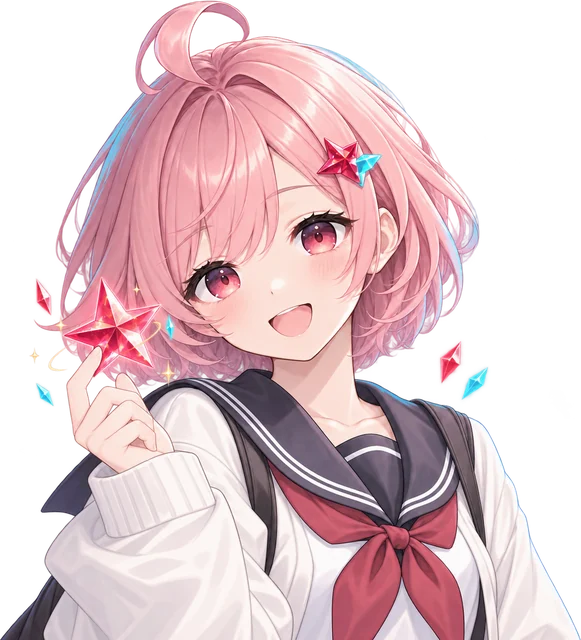
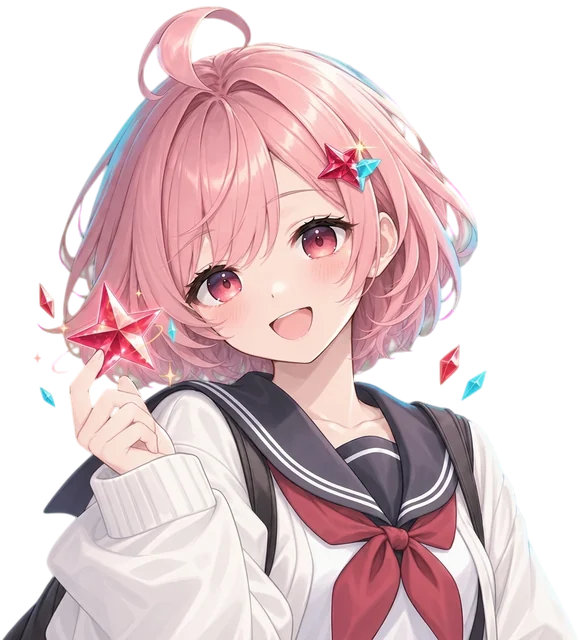
feat(lumi): refresh the mascot art and add cheer, study, wave and focus poses
The ten existing poses are redrawn on the same canvases. The greeting step of
onboarding waves, the first-cards step and the library heading hold cards, a
finished lesson and a streak milestone cheer, and a "hard" rating shows the
focused pose instead of the mistake pose.

Claude-Session: https://claude.ai/code/session_01NVdn2VbFUpzcnfLQXJs7G4

diff --git a/src/features/library/LibraryOverview.tsx b/src/features/library/LibraryOverview.tsx
@@ -14,7 +14,7 @@ export function LibraryOverview({ total, due, onCreateCard, searchQuery = '', on
   const { i18n } = useLingui();
   return <header className="library-canvas-heading" data-library-region="overview">
     <div className="library-canvas-title"><p className="library-canvas-kicker"><Trans {...msg({ context: 'library.overview.kicker', message: 'Vocabulary' })} /> <span className="library-canvas-kicker-decks"><Trans {...msg({ context: 'library.overview.deck-count', message: '// {count, plural, one {# deck} other {# decks}}' })} values={{ count: deckCount }} /></span></p><h2 id="learning-home-heading"><Trans {...msg({ context: 'library.overview.kicker', message: 'Vocabulary' })} /></h2><p className="library-canvas-summary" data-library-evidence="true"><span>{formatNumber(total)}</span> <Trans {...msg({ context: 'library.overview.words', message: 'words' })} /> <span className="library-canvas-summary-decks"><Trans {...msg({ context: 'library.overview.across-decks', message: 'across {count, plural, one {# deck} other {# decks}}' })} values={{ count: deckCount }} /></span> · <strong>{due} <Trans {...msg({ context: 'library.overview.due', message: 'due today' })} /></strong></p></div>
-    <aside className="library-lumi-hint"><Lumi pose="hint" size={100}/><p><b><Trans {...msg({ context: 'library.overview.lumi-signature', message: 'LUMI · LINK' })} /></b><span><Trans {...msg({ context: 'library.overview.lumi', message: 'Review the cards waiting for you today.' })} /></span></p></aside>
+    <aside className="library-lumi-hint"><Lumi pose="study" size={100}/><p><b><Trans {...msg({ context: 'library.overview.lumi-signature', message: 'LUMI · LINK' })} /></b><span><Trans {...msg({ context: 'library.overview.lumi', message: 'Review the cards waiting for you today.' })} /></span></p></aside>
     <label className="library-canvas-search"><Search size={17} aria-hidden="true" /><span className="sr-only"><Trans {...msg({ context: 'library.grid.search-label', message: 'Search words' })} /></span><input type="search" autoComplete="off" value={searchQuery} onChange={event => onSearchChange?.(event.target.value)} placeholder={i18n._(msg({ id: 'library.canvas.search-placeholder', message: 'Search words or meanings…' }))} /><kbd>/</kbd></label>
     <button type="button" data-library-create-action="true" onClick={onCreateCard} className="library-canvas-create"><Plus size={17} aria-hidden="true" /><Trans {...msg({ context: 'library.overview.create-card', message: 'Create card' })} /></button>
   </header>;

diff --git a/src/components/lumi/Lumi.tsx b/src/components/lumi/Lumi.tsx
@@ -1,6 +1,8 @@
 import { type ComponentPropsWithoutRef, type CSSProperties } from 'react';
 import { useReducedMotion } from '../../lib/motionPreferenceHooks';
+import lumiCheer from '../../assets/lumi/lumi-cheer.webp';
 import lumiChibi from '../../assets/lumi/lumi-chibi.webp';
+import lumiFocus from '../../assets/lumi/lumi-focus.webp';
 import lumiHappy from '../../assets/lumi/lumi-happy.webp';
 import lumiHero from '../../assets/lumi/lumi-hero.webp';
 import lumiHint from '../../assets/lumi/lumi-hint.webp';
@@ -9,9 +11,11 @@ import lumiOops from '../../assets/lumi/lumi-oops.webp';
 import lumiProud from '../../assets/lumi/lumi-proud.webp';
 import lumiSad from '../../assets/lumi/lumi-sad.webp';
 import lumiSleepy from '../../assets/lumi/lumi-sleepy.webp';
+import lumiStudy from '../../assets/lumi/lumi-study.webp';
 import lumiThinking from '../../assets/lumi/lumi-thinking.webp';
+import lumiWave from '../../assets/lumi/lumi-wave.webp';
 
-export const lumiPoses = ['hero', 'idle', 'happy', 'hint', 'oops', 'proud', 'chibi', 'sleepy', 'thinking', 'sad'] as const;
+export const lumiPoses = ['hero', 'idle', 'happy', 'hint', 'oops', 'proud', 'chibi', 'sleepy', 'thinking', 'sad', 'cheer', 'study', 'wave', 'focus'] as const;
 
 export type LumiPose = typeof lumiPoses[number];
 
@@ -26,6 +30,10 @@ const poseSources: Record<LumiPose, string> = {
   sleepy: lumiSleepy,
   thinking: lumiThinking,
   sad: lumiSad,
+  cheer: lumiCheer,
+  study: lumiStudy,
+  wave: lumiWave,
+  focus: lumiFocus,
 };
 
 type LumiSharedProps = Omit<ComponentPropsWithoutRef<'img'>, 'alt' | 'aria-hidden' | 'height' | 'loading' | 'src' | 'width'> & {

diff --git a/src/features/dailyLearning/LessonScreen.tsx b/src/features/dailyLearning/LessonScreen.tsx
@@ -263,7 +263,7 @@ export function LessonScreen({ model, actions }: LessonScreenProps) {
   if (model.status === 'guided') return <GuidedPractice model={model} actions={actions} showLumi={showLumi} crystal={crystal} />;
   if (model.status === 'complete') return <section aria-labelledby="daily-lesson-heading" className="lesson-complete-canvas daily-canvas" data-learning-canvas="lesson-complete">
     <div className="lesson-complete-card">
-      {showLumi && <Lumi pose="proud" size={88} className="crystal-ornament mx-auto mb-2" />}
+      {showLumi && <Lumi pose="cheer" size={88} className="crystal-ornament mx-auto mb-2" />}
       <p className="lesson-field-label">{_(msg({ id: 'daily.lesson.session-complete-kicker', message: 'Session complete' }))}</p>
       <h1 id="daily-lesson-heading" ref={model.headingRef} tabIndex={-1} className="lesson-card-title mt-3">{_(msg({ id: 'daily.lesson.complete', message: 'Lesson complete' }))}</h1>
       <p className="lesson-help mx-auto mt-3 max-w-xl text-pretty" role="status">{model.liveMessage}</p>

diff --git a/src/features/dailyLearning/StreakDialog.tsx b/src/features/dailyLearning/StreakDialog.tsx
@@ -196,7 +196,7 @@ export function StreakChip({ view, runStats, now, streak, run, week, className, 
   const held = view?.freezes.held ?? 0;
   const showFreezes = Boolean(view) && (state === 'active' || state === 'frozen');
   const milestoneXp = state === 'milestone' ? STREAK_MILESTONE_XP[length as StreakMilestone] : undefined;
-  const lumiPose: LumiPose = state === 'milestone' ? 'proud' : state === 'repair' || state === 'ended' ? 'sad' : 'hint';
+  const lumiPose: LumiPose = state === 'milestone' ? 'cheer' : state === 'repair' || state === 'ended' ? 'sad' : 'hint';
   const runEnded = state === 'repair' || state === 'ended';
   const startsSession = onStartSession && (state === 'repair' || (state !== 'milestone' && !studiedToday));
   const em = <em />;

diff --git a/src/components/lumi/Lumi.test.tsx b/src/components/lumi/Lumi.test.tsx
@@ -4,7 +4,7 @@ import { Lumi, lumiPoses } from './Lumi';
 
 describe('Lumi', () => {
   it('maps every approved pose to a local sprite', () => {
-    expect(lumiPoses).toEqual(['hero', 'idle', 'happy', 'hint', 'oops', 'proud', 'chibi', 'sleepy', 'thinking', 'sad']);
+    expect(lumiPoses).toEqual(['hero', 'idle', 'happy', 'hint', 'oops', 'proud', 'chibi', 'sleepy', 'thinking', 'sad', 'cheer', 'study', 'wave', 'focus']);
 
     for (const pose of lumiPoses) {
       expect(renderToStaticMarkup(<Lumi pose={pose} size={48} />)).toContain(`data-lumi-pose="${pose}"`);

diff --git a/src/features/practice/StudyView.tsx b/src/features/practice/StudyView.tsx
@@ -327,7 +327,7 @@ export function StudyView({
         globalThis.document?.documentElement.dataset.themeFamily === 'crystal'
         && readLumiEnabled()
       ) {
-        setLumiReaction(effectiveRating === 'again' || effectiveRating === 'hard' ? 'oops' : 'happy');
+        setLumiReaction(effectiveRating === 'again' ? 'oops' : effectiveRating === 'hard' ? 'focus' : 'happy');
       }
 
       const isPositive = effectiveRating === 'good' || effectiveRating === 'easy';

diff --git a/src/features/onboarding/OnboardingJourney.tsx b/src/features/onboarding/OnboardingJourney.tsx
@@ -142,7 +142,7 @@ function LumiGuide({ step }: { readonly step: OnboardingStepId }) {
       <p className="onb-lumi-title">{title}</p>
       <p className="onb-lumi-body">{body}</p>
     </div>
-    <Lumi pose={step === 'aha' ? 'proud' : 'happy'} size={290} className="crystal-ornament onb-lumi-figure" />
+    <Lumi pose={step === 'language' ? 'wave' : step === 'aha' ? 'study' : 'happy'} size={290} className="crystal-ornament onb-lumi-figure" />
   </aside>;
 }
 
